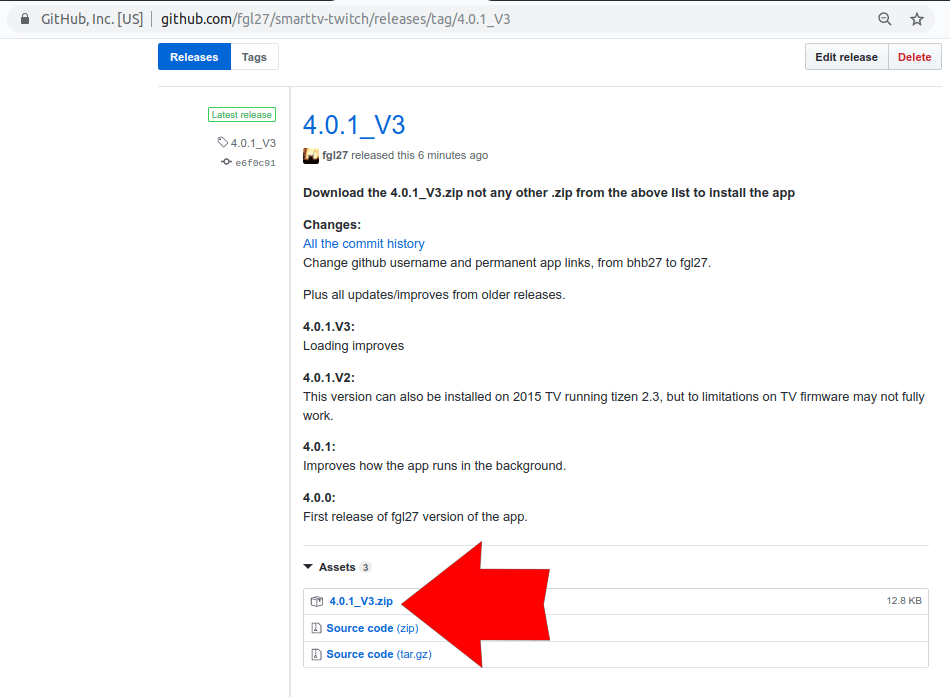
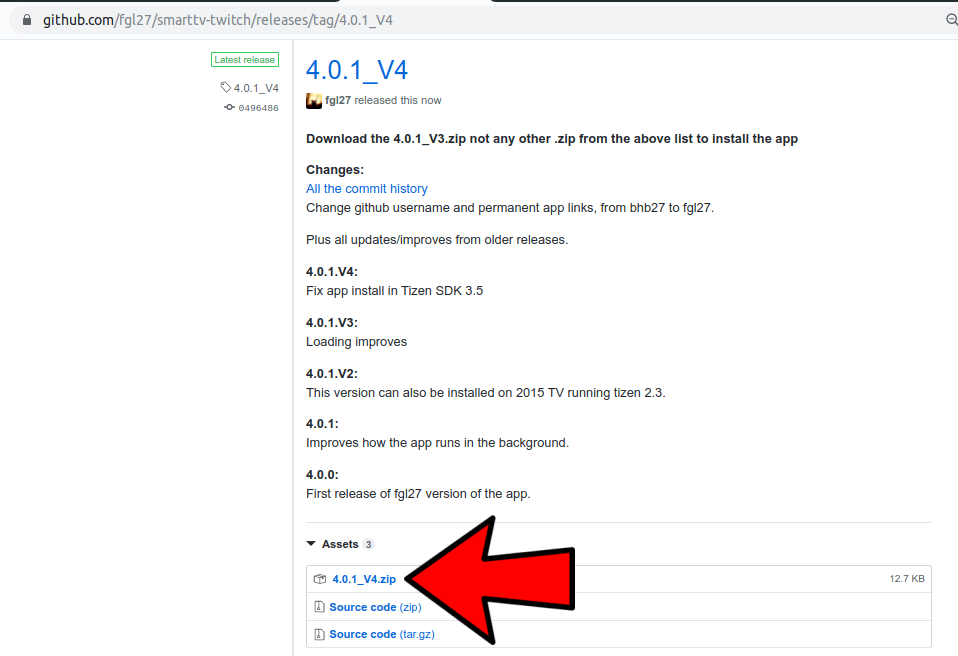
Update readme

diff --git a/README.md b/README.md
@@ -190,7 +190,7 @@ Tizen is always changing those are the packages was available but on updates fro
 
 ## Setup the application:
 
-* **[Download and extract the release_4.0.1_V3.zip file Click here, this is the application recipe file](https://github.com/fgl27/smarttv-twitch/releases/download/4.0.1_V3/4.0.1_V3.zip)**
+* **[Download and extract the release_4.0.1_V4.zip file Click here, this is the application recipe file](https://github.com/fgl27/smarttv-twitch/releases/download/4.0.1_V4/4.0.1_V4.zip)**
 
 ![install_app1](https://fgl27.github.io/smarttv-twitch/screenshot/install/install_app1.png)
 
